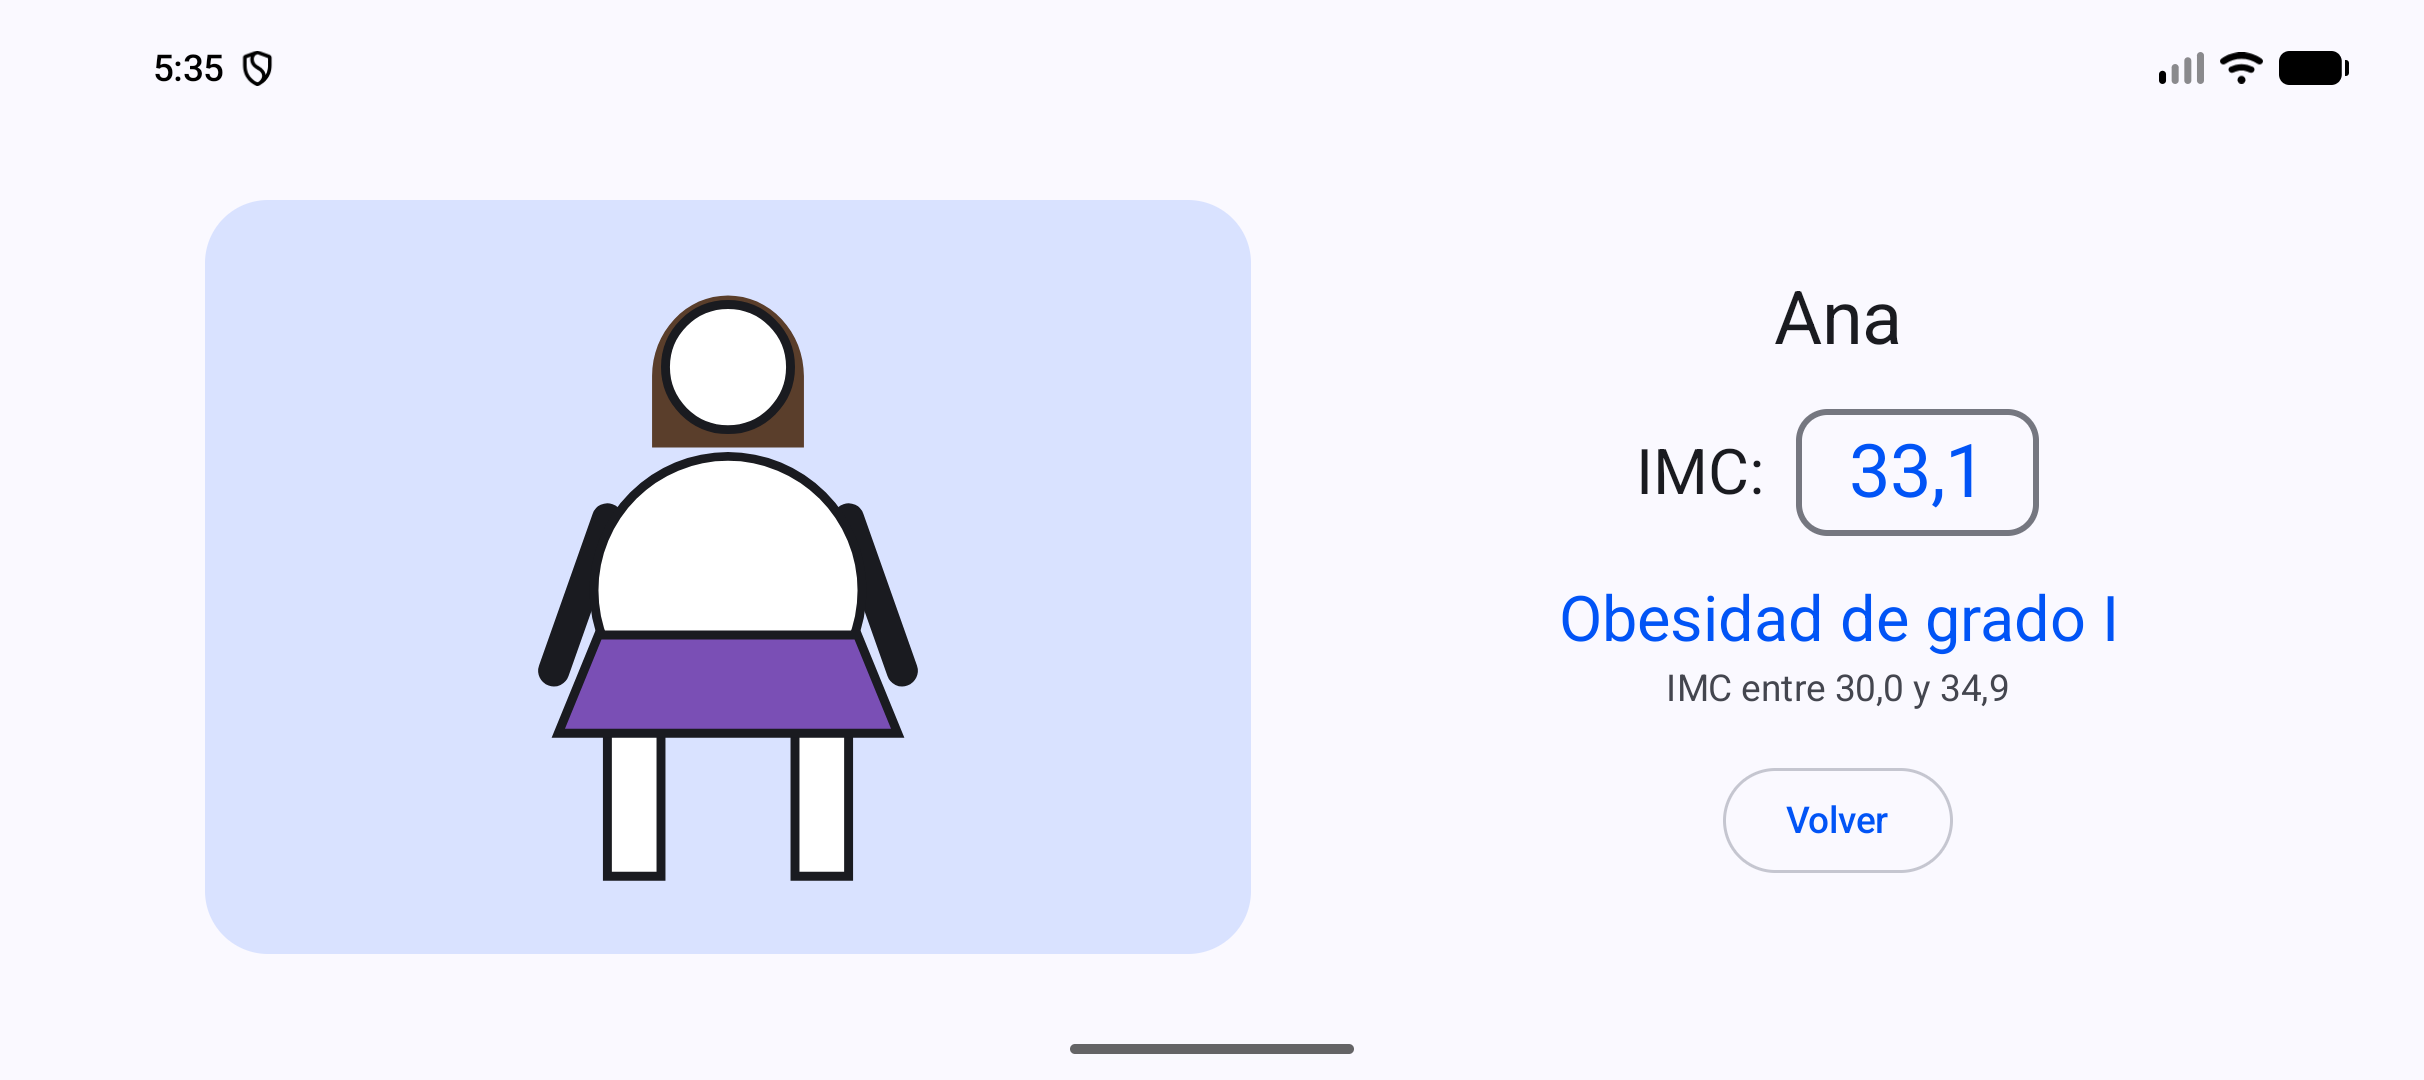
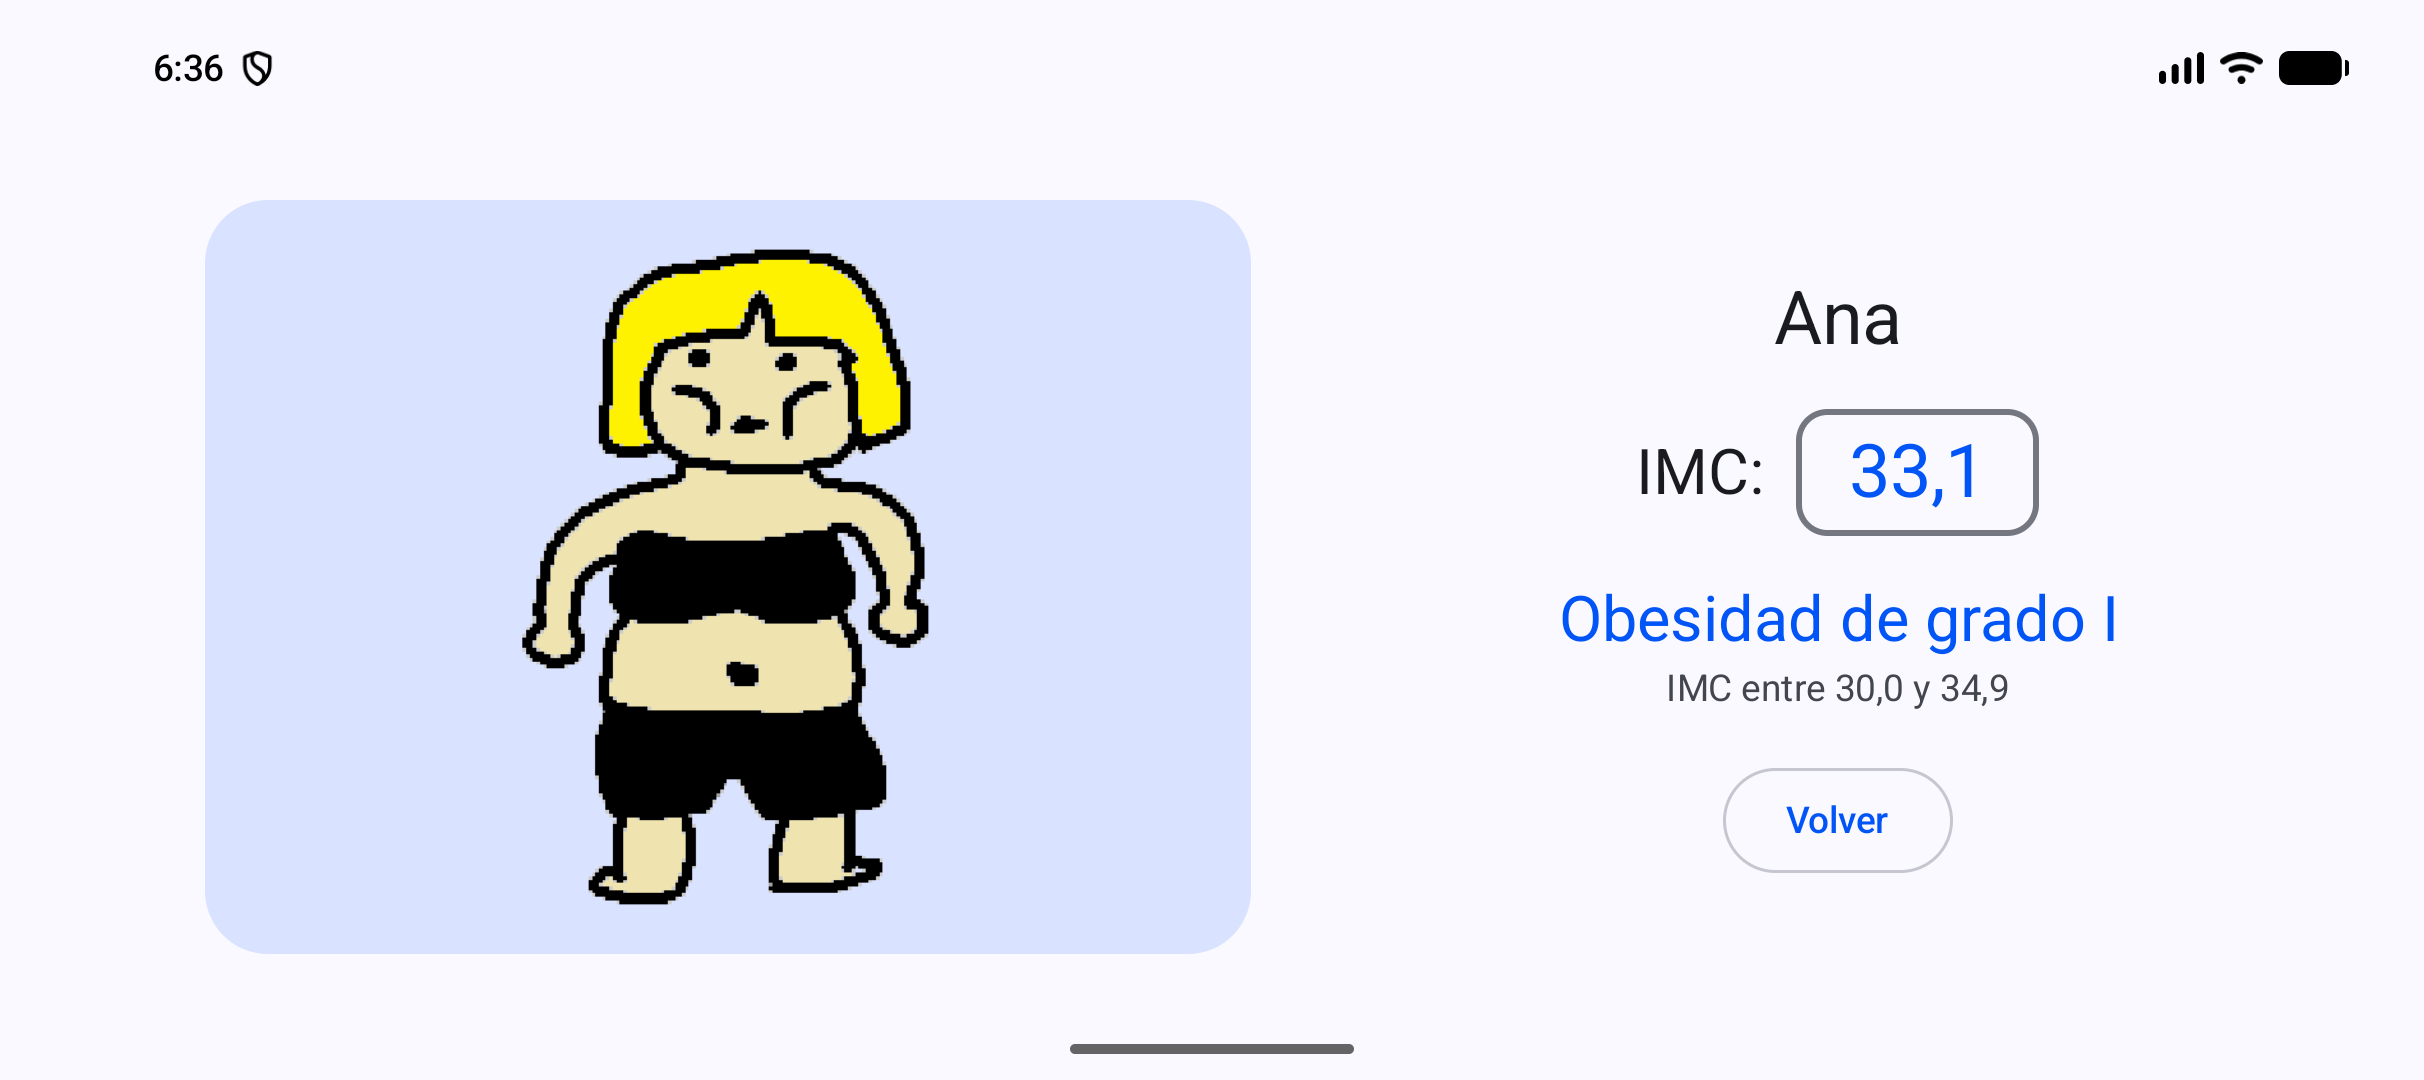
Dibujos definitivos de mujer para las 6 categorías
Sustituyen a los muñecos provisionales. Se quita también el blanco encerrado (huecos entre piernas y brazos) en los 12 dibujos. README y capturas actualizados.

Changed region(s): [[0.2166, 0.2139, 0.4022, 0.8556], [0.8973, 0.0611, 0.9282, 0.0917]]

diff --git a/README.md b/README.md
@@ -76,24 +76,22 @@ com.gonzalo.calculadora_imc
   <img src="docs/capturas/resultado_horizontal.png" width="560" alt="Resultado con el móvil en horizontal">
 </p>
 
-## Cambiar las ilustraciones
+## Las ilustraciones
 
-Hay 12 dibujos en `app/src/main/res/drawable`, uno por categoría y por sexo:
+Los 12 dibujos están hechos a mano: uno por categoría y por sexo. Están en `app/src/main/res/drawable`:
 
 ```
-imc_hombre_1.png … imc_hombre_6.png   → dibujos definitivos, hechos a mano
-imc_mujer_1.xml  … imc_mujer_6.xml    → muñecos provisionales
+imc_hombre_1.png … imc_hombre_6.png
+imc_mujer_1.png  … imc_mujer_6.png
 ```
 
 El número es la columna **#** de la tabla de arriba (1 = Bajo peso … 6 = Obesidad de grado III).
 
-Para poner un dibujo tuyo:
+Son PNG con fondo transparente, recortados a su contenido. La app los ajusta al marco sin deformarlos.
 
-1. Borra el `.xml` que quieres sustituir, por ejemplo `imc_mujer_3.xml`.
-2. Copia tu imagen en `app/src/main/res/drawable` con **el mismo nombre**: `imc_mujer_3.png`.
-3. Vuelve a ejecutar la app. No hay que tocar código.
+Para cambiar un dibujo, sustituye el PNG por otro con **el mismo nombre** y vuelve a ejecutar la app. No hay que tocar código.
 
-> El nombre debe ir en minúsculas, sin espacios ni tildes, o Android no lo reconoce. No puede haber a la vez un `.xml` y un `.png` con el mismo nombre.
+> El nombre debe ir en minúsculas, sin espacios ni tildes, o Android no lo reconoce.
 
 ## Ejecutarlo
 
